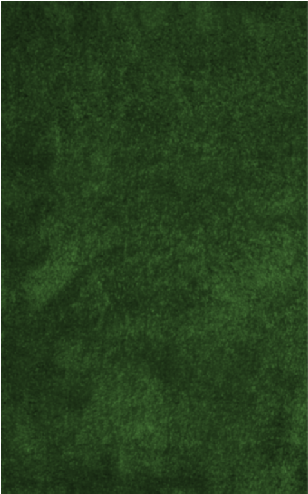
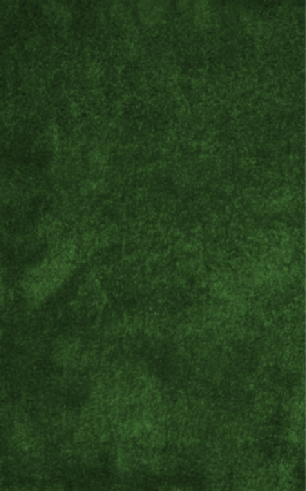
menu, cards, mat, styles...

Changed region(s): [[0.0, 0.0, 0.0294, 1.0]]

diff --git a/cardWar/src/app/app.component.css b/cardWar/src/app/app.component.css
@@ -5,7 +5,6 @@
 h1 {
     font-family: calibri;
     color: rgb(24, 77, 22);
-    background-color: rgb(255, 251, 0);
     padding: 10px;
     display: inline-block;
 }
@@ -27,7 +26,8 @@ nav {
 #body {
     background-color: rgb(24, 77, 22);
     background-image: url("./img/mat.png");
-    display: inline-block;
+    width:300px;
+    height:auto;
     margin: auto;
 }
 

diff --git a/cardWar/src/app/menu/menu.component.css b/cardWar/src/app/menu/menu.component.css
@@ -1,4 +1,21 @@
+h2 {
+    text-align: center;
+    font-size: 30px;
+    border-color: rgb(255, 251, 0);
+    border-style: solid;
+    margin:0 40px;
+}
+
+
+#enter {
+    font-size: 18px;
+    text-align: center;
+}
 
 #nickname{
-    margin-left:10px;
+    margin: 0px 20px  10px 20px;
+}
+
+input{
+    width: 150px;
 }

diff --git a/cardWar/src/app/menu/menu.component.html b/cardWar/src/app/menu/menu.component.html
@@ -1,5 +1,6 @@
 <div id = "menu-container">
   <h2>Main Menu</h2>
+  <p id = "enter"> Enter a Nickname before playing !</p>
   <label>nickname: 
     <input id="nickname" [(ngModel)]="player.username" placeholder="nickname"/>
   </label>

diff --git a/cardWar/src/styles.css b/cardWar/src/styles.css
@@ -1,1 +1,4 @@
 /* You can add global styles to this file, and also import other style files */
+body {
+    /*/background-image: url("./app/img/cards.jpg");/*/
+}
